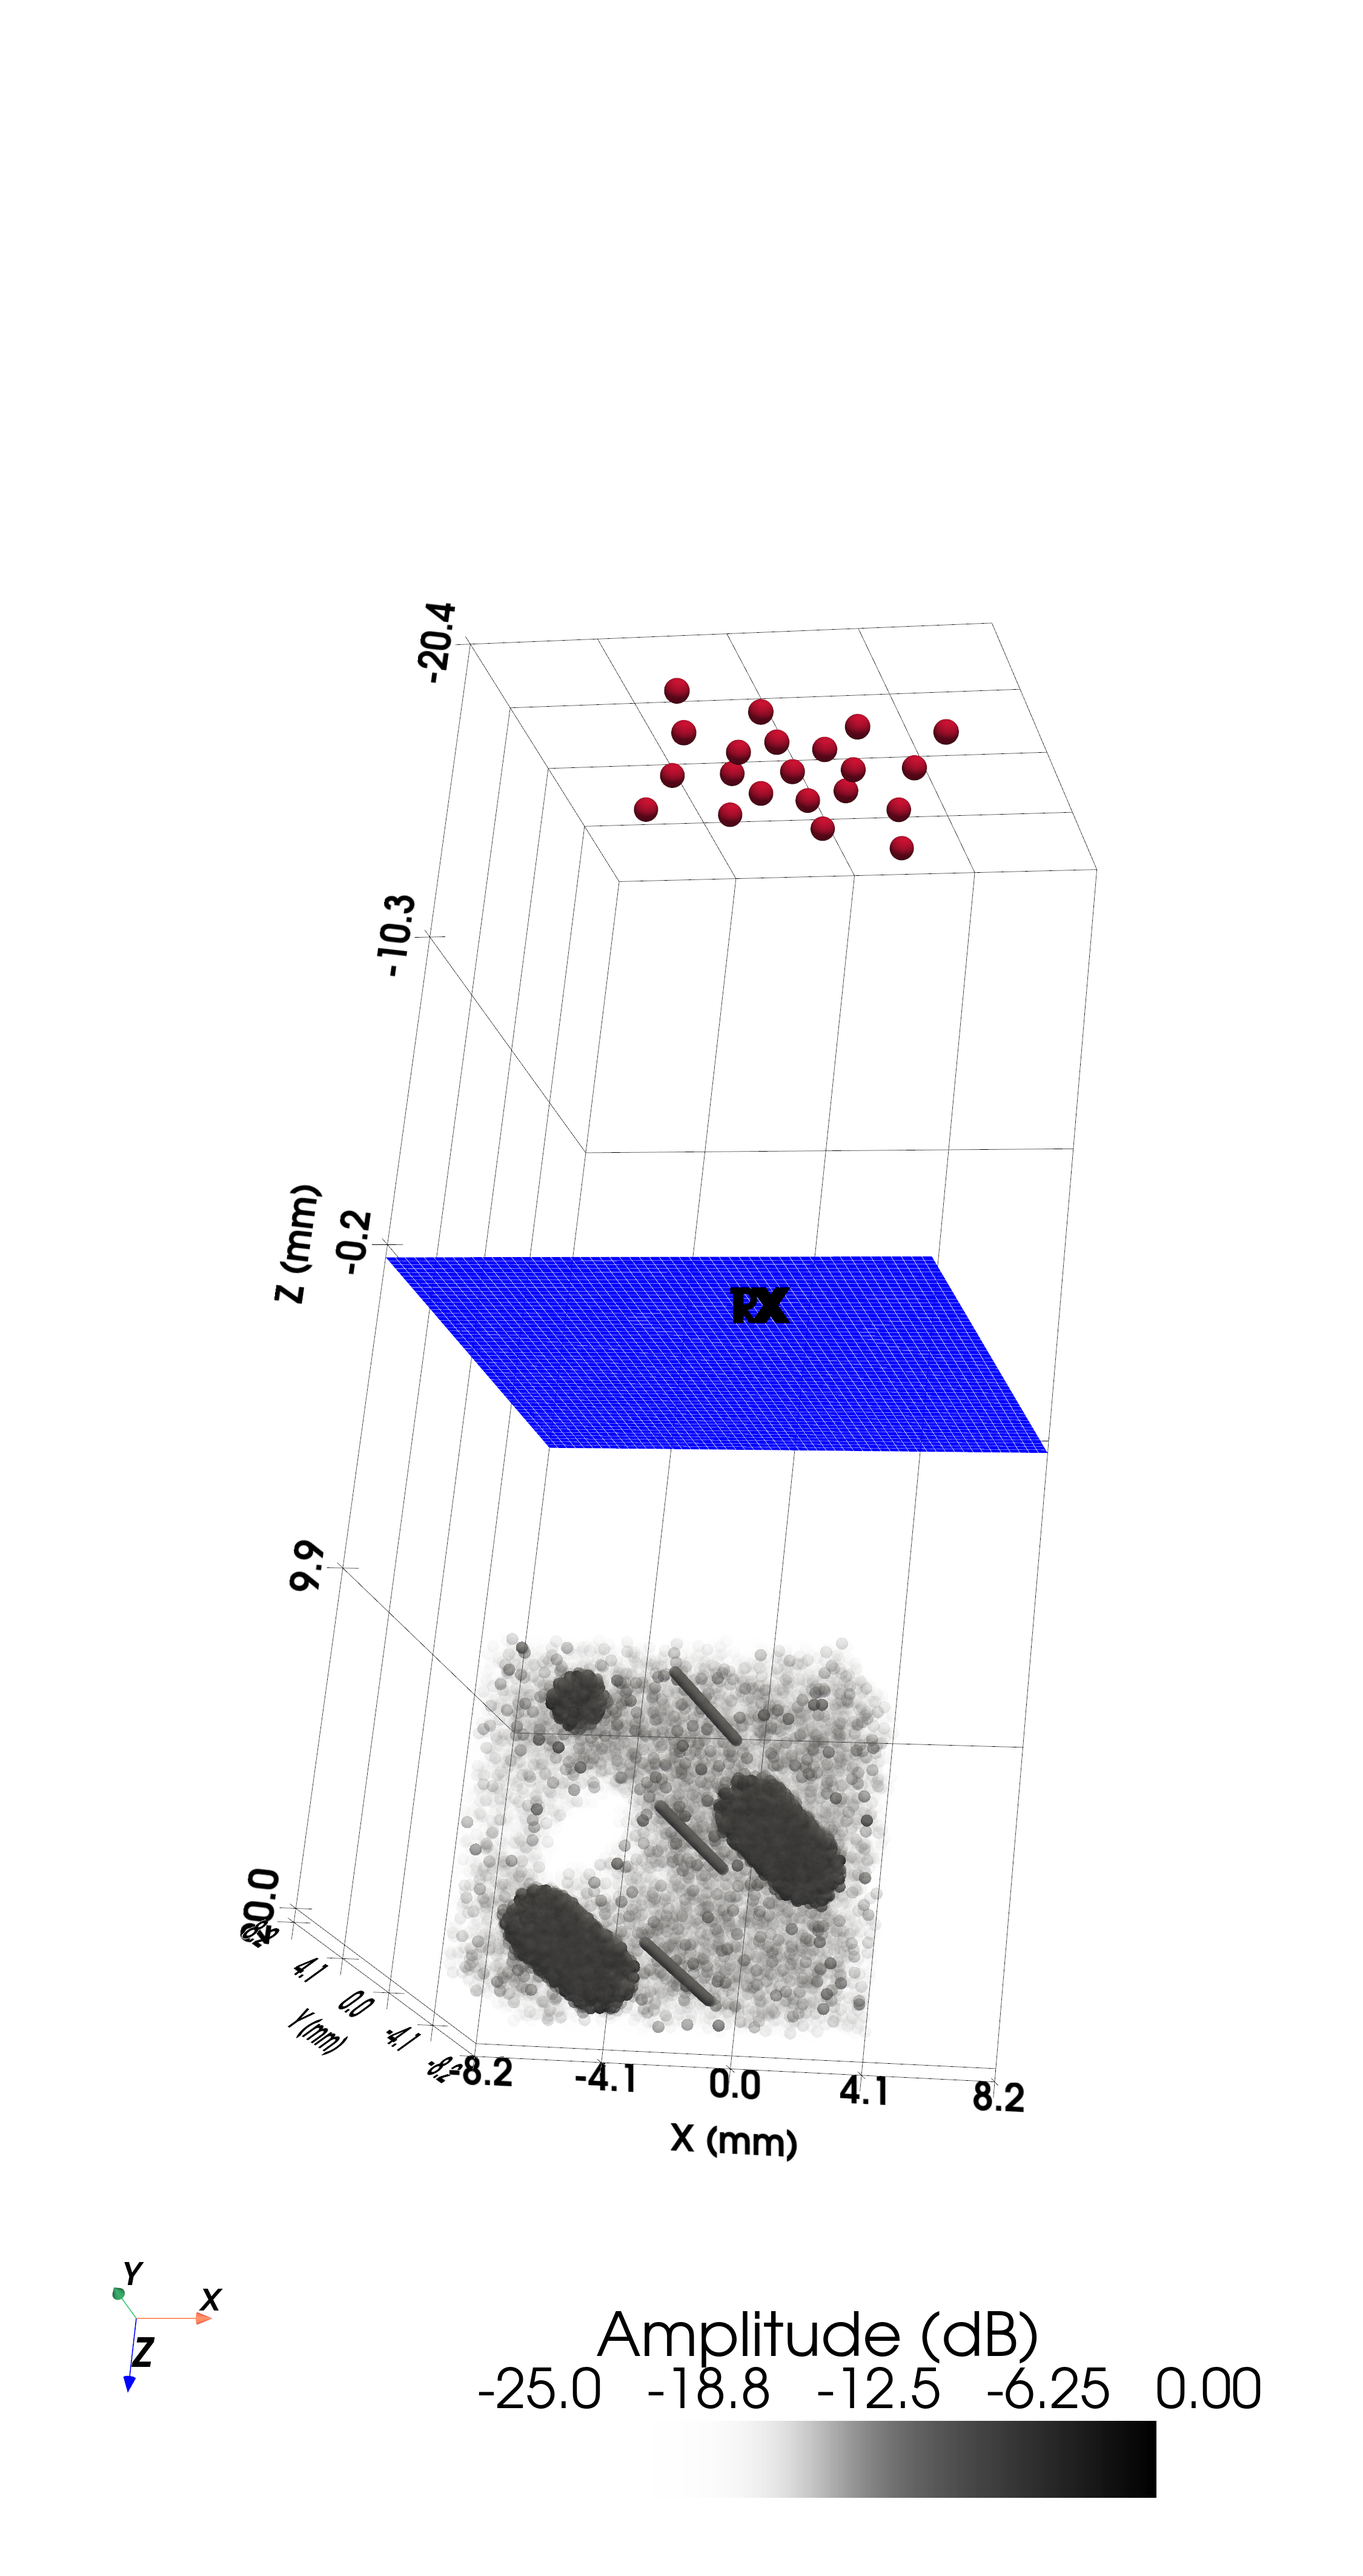
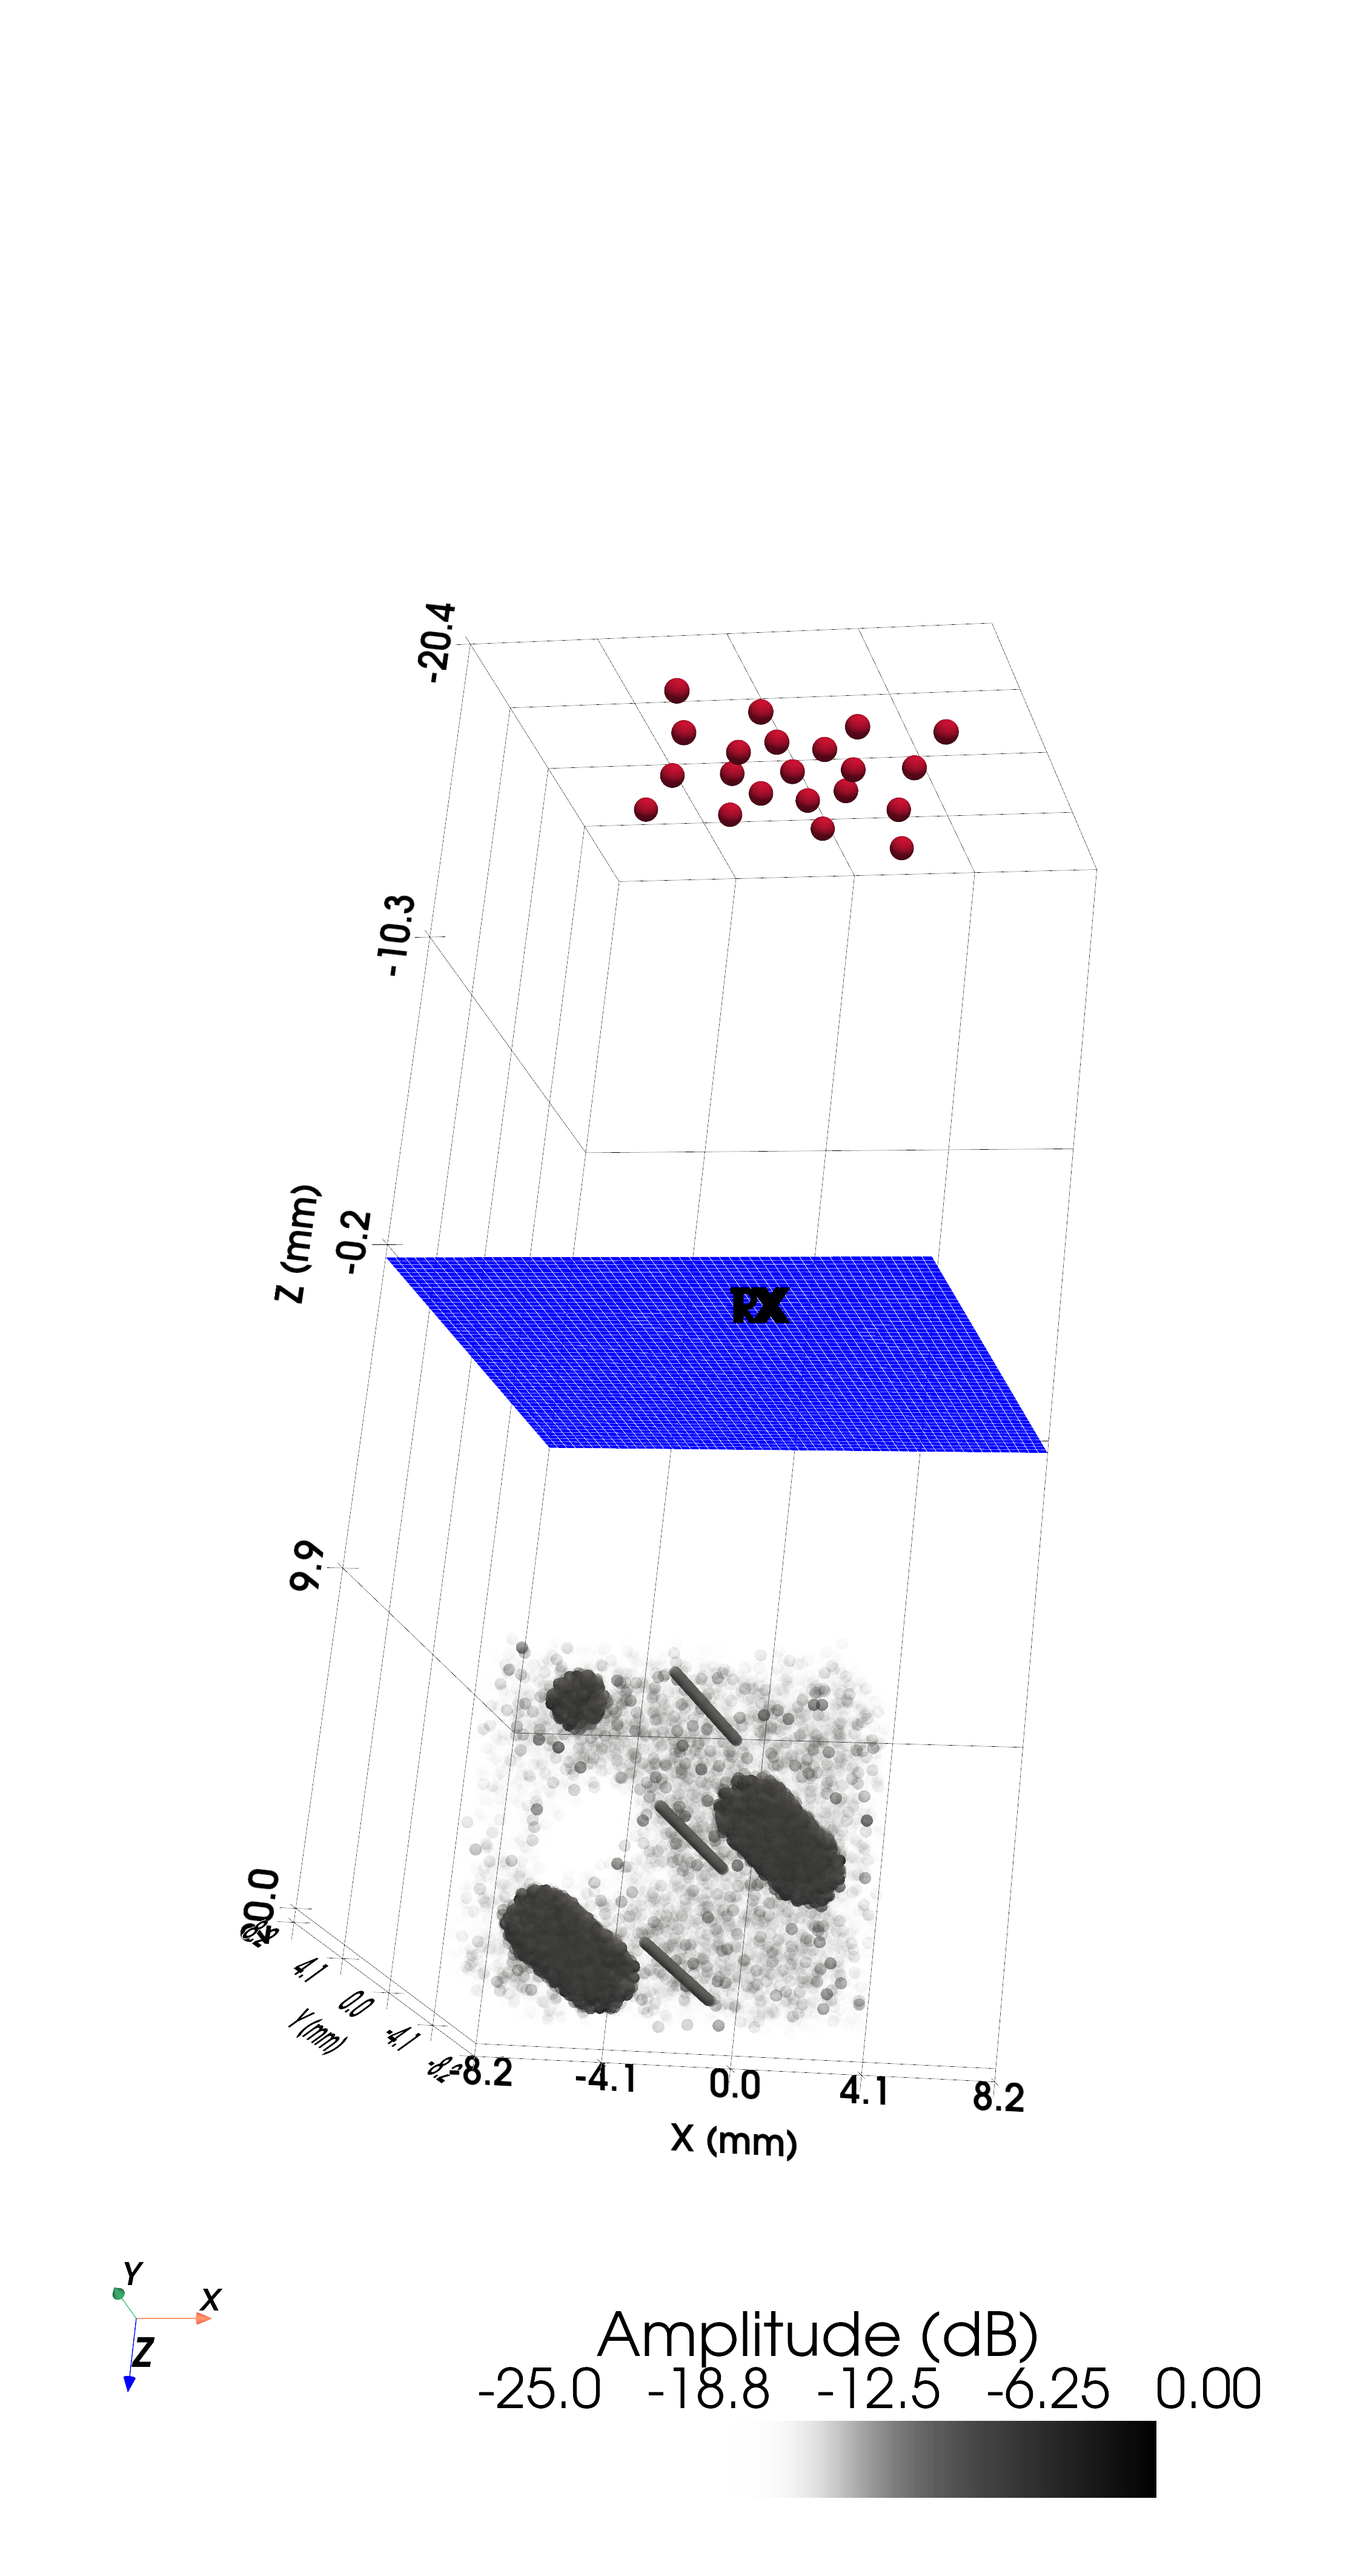
small refactor: figures with no background?

Changed region(s): [[0.3422, 0.6212, 0.6533, 0.8075], [0.3111, 0.4969, 0.7467, 0.5591], [0.56, 0.9318, 0.6533, 0.9939]]

diff --git a/examples/example21_3Dphantom_volume/visualize_beamformed_volume.py b/examples/example21_3Dphantom_volume/visualize_beamformed_volume.py
@@ -65,6 +65,9 @@ VOL_STRIDE = 2
 scale = SCALE if SAVE_FIG else 1
 if SAVE_FIG:
     FIG_DIR.mkdir(parents=True, exist_ok=True)
+    # Save PNGs with an alpha channel (no opaque backdrop) so the renders drop
+    # cleanly onto any page/slide background.
+    pv.global_theme.transparent_background = True
 
 FONTSIZE = 19
 plt.rcParams.update({"font.size": FONTSIZE})
@@ -111,37 +114,41 @@ vol_mesh = create_3Dvol_mesh(
     z_mm[::s],
     scalars="Envelope (dB)",
 )
-plotter = pv.Plotter(window_size=[850 * scale, 950 * scale], off_screen=SAVE_FIG)
-add_transducer_mesh(probe.get_mesh(), plotter=plotter, color="blue", scale=scale)
-_add_volume_box(plotter, x_mm, y_mm, z_mm)
-plotter.add_volume(
-    vol_mesh,
-    scalars="Envelope (dB)",
-    mapper="smart",
-    cmap="binary",
-    opacity="sigmoid_7",
-    show_scalar_bar=True,
-    scalar_bar_args={
-        "title": "dB",
-        "title_font_size": 20 * scale,
-        "label_font_size": 20 * scale,
-        "position_x": 0.3,
-        "position_y": 0.05,
-    },
-)
-# plotter.show_grid(
-#     xtitle="X (mm)", ytitle="Y (mm)", ztitle="Z (mm)", font_size=13 * scale
-# )
-plotter.camera_position = "yz"
-plotter.camera.azimuth = 40
-plotter.camera.elevation = -25
-plotter.camera.up = (0.0, 0.0, -1.0)  # ty: ignore[unresolved-attribute]
-plotter.camera_position = [
-    (13.378040491070358, 44.161316083419806, -10.470568079647542),
-    (-0.5859471497780473, 1.4651943972742822, 9.805476223963389),
-    (-0.12900800212517702, -0.3906497673463856, -0.9114547134443298),
-]
-_finish(plotter, f"ex21_{SCENARIO}_volume_3d.png")
+# Rendered twice: with the probe mesh (shows the volume relative to the
+# aperture) and without it (the bare B-mode volume for overlay/compositing).
+for with_probe in (True, False):
+    plotter = pv.Plotter(window_size=[850 * scale, 950 * scale], off_screen=SAVE_FIG)
+    if with_probe:
+        add_transducer_mesh(
+            probe.get_mesh(), plotter=plotter, color="blue", scale=scale
+        )
+    _add_volume_box(plotter, x_mm, y_mm, z_mm)
+    plotter.add_volume(
+        vol_mesh,
+        scalars="Envelope (dB)",
+        mapper="smart",
+        cmap="binary",
+        opacity="sigmoid_7",
+        show_scalar_bar=True,
+        scalar_bar_args={
+            "title": "dB",
+            "title_font_size": 20 * scale,
+            "label_font_size": 20 * scale,
+            "position_x": 0.3,
+            "position_y": 0.05,
+        },
+    )
+    plotter.camera_position = "yz"
+    plotter.camera.azimuth = 40
+    plotter.camera.elevation = -25
+    plotter.camera.up = (0.0, 0.0, -1.0)  # ty: ignore[unresolved-attribute]
+    plotter.camera_position = [
+        (13.378040491070358, 44.161316083419806, -10.470568079647542),
+        (-0.5859471497780473, 1.4651943972742822, 9.805476223963389),
+        (-0.12900800212517702, -0.3906497673463856, -0.9114547134443298),
+    ]
+    suffix = "volume_3d" if with_probe else "volume_3d_noprobe"
+    _finish(plotter, f"ex21_{SCENARIO}_{suffix}.png")
 
 # ============================================================================
 # FIGURE 2 — MPR: cut planes through the targets + −6 dB iso-surface

diff --git a/examples/example21_3Dphantom_volume/preview_phantom.py b/examples/example21_3Dphantom_volume/preview_phantom.py
@@ -43,6 +43,10 @@ SCALE = 5
 # High-resolution screenshots: scale window size + fonts by SCALE when saving.
 scale = SCALE if SAVE_FIG else 1
 FIG_DIR.mkdir(parents=True, exist_ok=True)
+if SAVE_FIG:
+    # Save the 3-D PNGs with an alpha channel (no opaque backdrop) so the
+    # setup scene drops cleanly onto any page/slide background.
+    pv.global_theme.transparent_background = True
 VOLUME = SC["volume"]
 DB_RANGE = 25  # display range of the gray "bmode" phantom volume
 VOL_STRIDE = 2  # step down the volume for the semi-transparent render only
